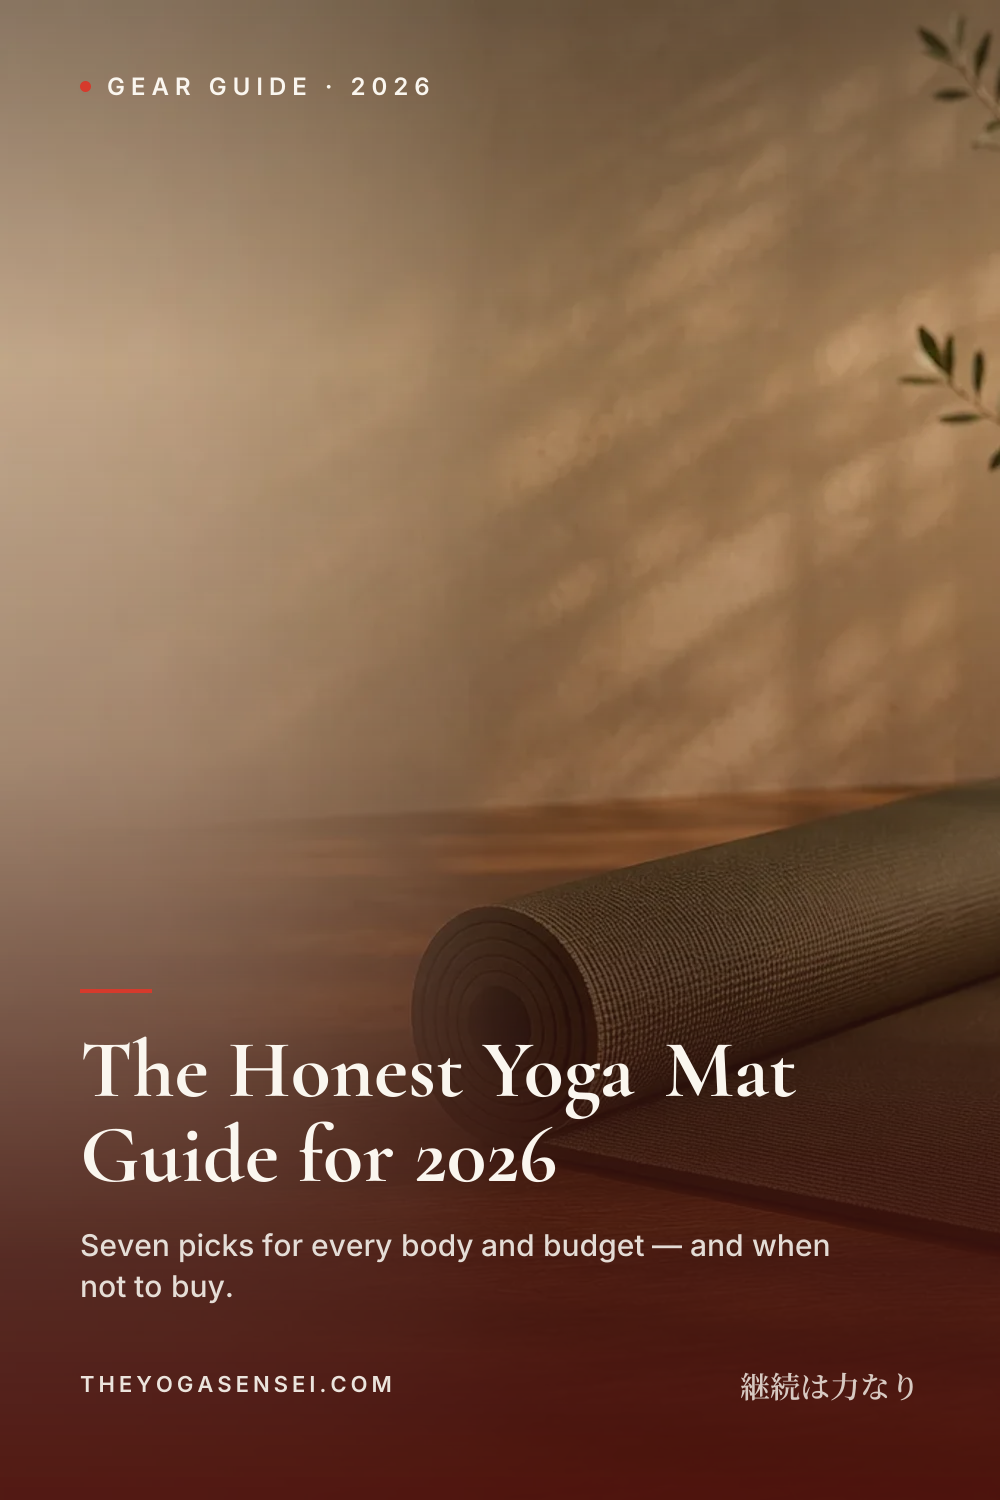
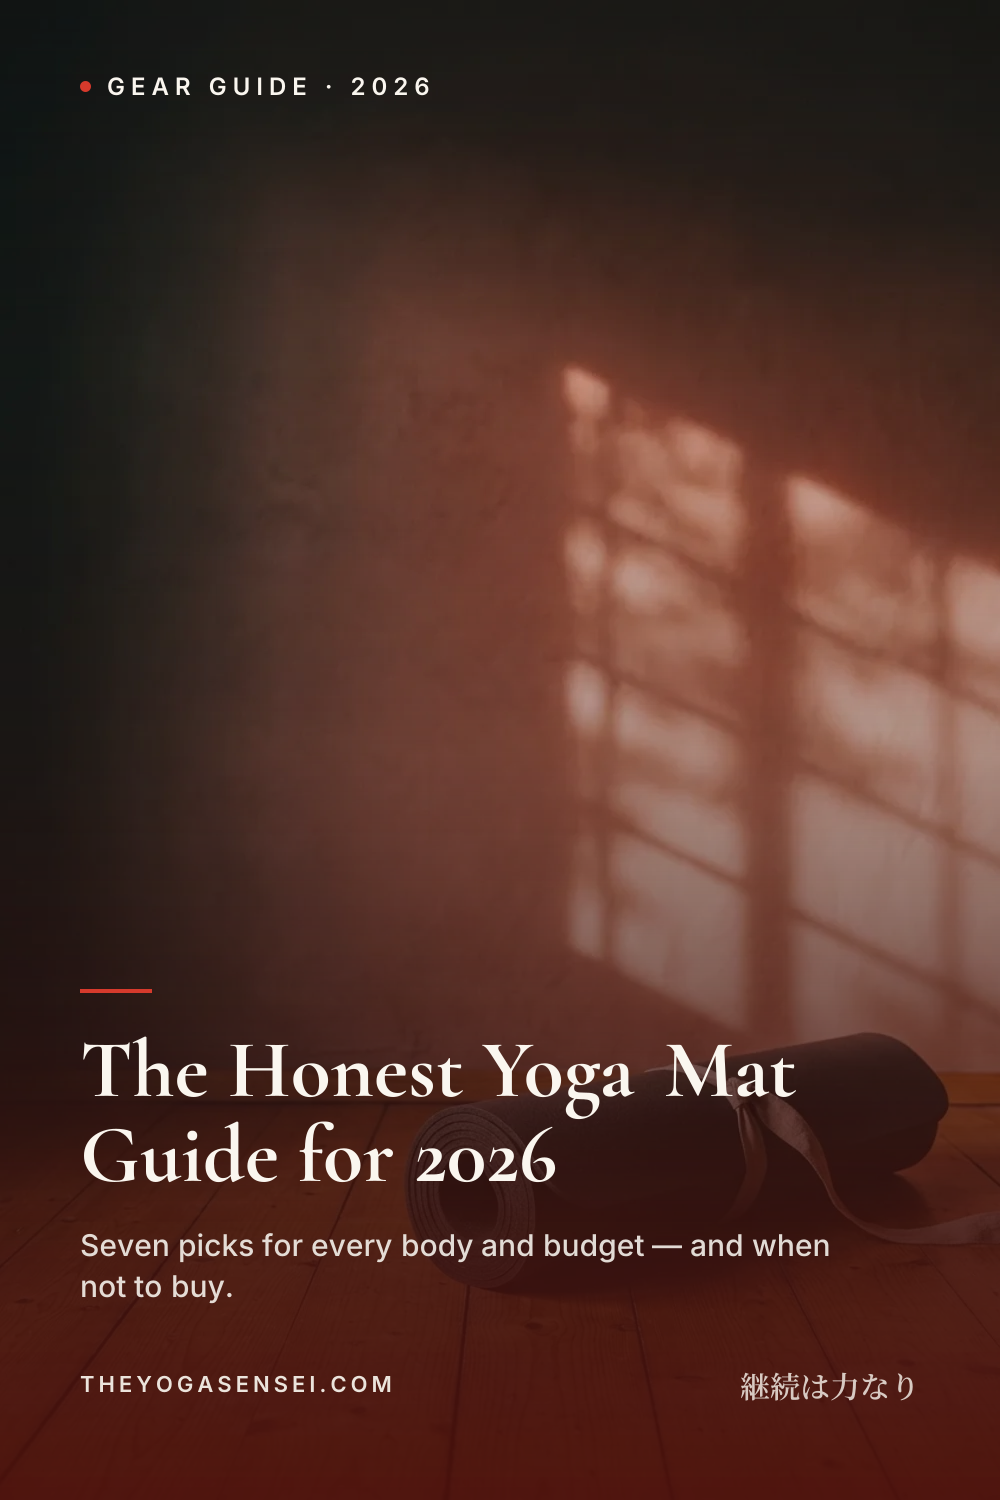
Use Higgsfield charcoal-red mat photos as best-yoga-mats pin backgrounds

diff --git a/scripts/generate-pins.ts b/scripts/generate-pins.ts
@@ -531,11 +531,11 @@ const GUIDES: Guide[] = [
     hashtags: '#yogamat #bestyogamats #yogagear #yogaforbeginners #yogaessentials',
     desc: 'An honest 2026 yoga mat guide comparing seven standout picks by material, grip, cushion and trade-offs, without fake lab-testing claims — from budget to buy-it-for-life.',
     bg: [
-      'public/images/brand/review-hero-best-mats.webp',
-      'public/images/brand/topic-yoga-mats.webp',
-      'public/images/brand/review-hero-best-mats.webp',
-      'public/images/aiko-persona/aiko-rolling-out-sage-yoga-mat.webp',
-      'public/images/brand/topic-yoga-mats.webp',
+      'public/images/brand/best-mats-charcoal.webp',
+      'public/images/brand/best-mats-charcoal.webp',
+      'public/images/brand/best-mats-warm.webp',
+      'public/images/brand/best-mats-warm.webp',
+      'public/images/brand/best-mats-charcoal.webp',
     ],
     hooks: [
       ['Gear Guide · 2026', 'The Honest Yoga Mat Guide for 2026', 'Seven picks for every body and budget — and when not to buy.', 82],
